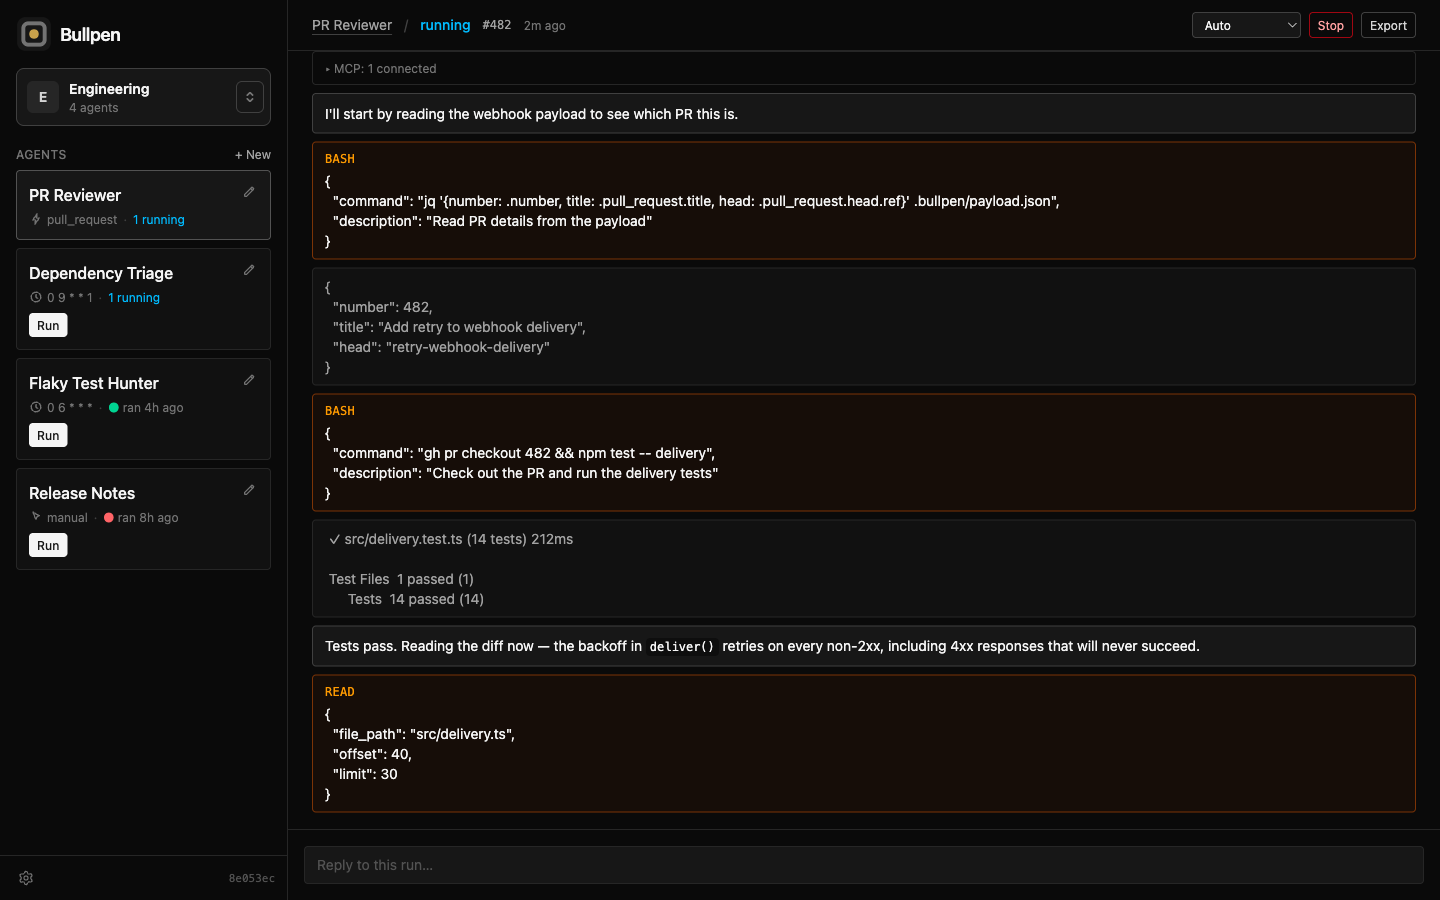
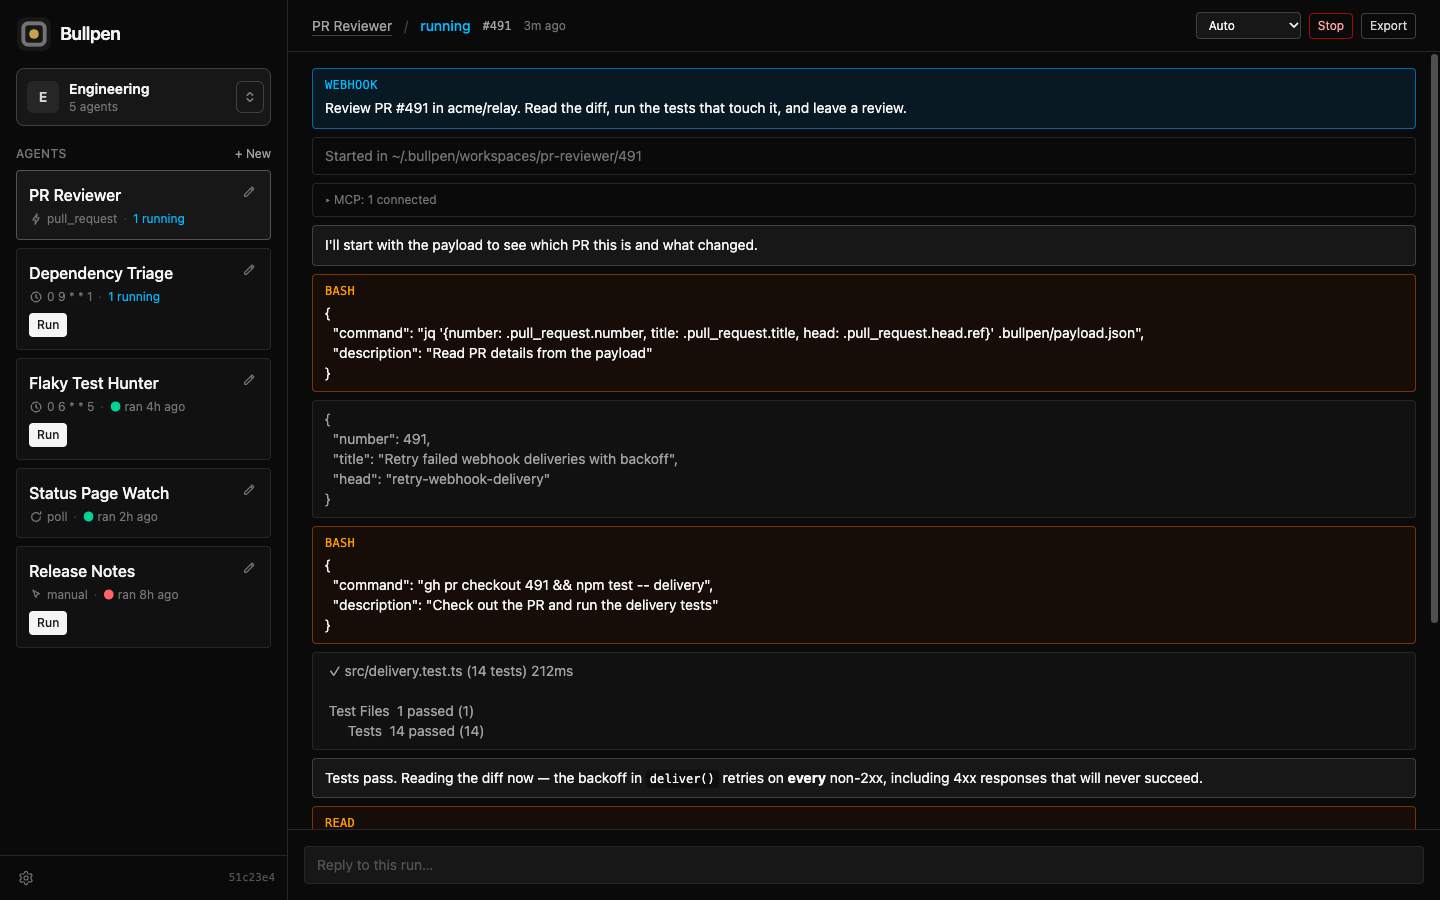
Bring the usage guide and screenshots up to date with recent features (#57)
The guide never mentioned Poll triggers, Queue/Skip, webhook filter sets,
merge deliveries or the credit-line setting, still said failed workspaces
were kept forever, and the screenshots predated the editor rework.

diff --git a/docs/using-bullpen.md b/docs/using-bullpen.md
@@ -20,8 +20,9 @@ always there, and a space can share a webhook URL and env across its agents.
 Each agent has a **workspace**, one of:
 
 - **Fresh directory** (the default) — a new empty folder per run, removed a while after the run
-  completes (Settings sets how long) and kept if it fails. Nothing carries over, which is what
-  lets several runs of one agent work at once.
+  completes (Settings sets how long). A failed or stopped run's folder is kept for 7 days, since
+  it is the only evidence the failure leaves. Nothing carries over, which is what lets several
+  runs of one agent work at once.
 - **Scratch directory** — one folder the agent reuses every run, so it can keep notes or caches.
   The answer for agents that never touch code.
 - **Existing directory** — a folder you name, such as your real checkout, edited in place and
@@ -29,14 +30,23 @@ Each agent has a **workspace**, one of:
 - **Git clone** — a fresh clone on its own branch per run. Review the diff a run produced, then
   commit, push, and open a PR from the run page.
 
-Runs of one agent can overlap by default. On a scratch or existing directory, that means they
-overwrite each other's files — the editor warns about it.
+**Overlapping runs** decides what happens when a trigger arrives while a run is active:
+
+- **Allow** (the default) starts it anyway, in parallel. On a scratch or existing directory that
+  means the runs overwrite each other's files — the editor warns about it.
+- **Queue** holds it and runs one at a time, in order. Up to 20 can wait; beyond that a trigger
+  is refused. This is the safe choice for a shared directory.
+- **Skip** refuses it. A trigger that arrives mid-run is lost for good.
 
 Files an agent hands back go in `.bullpen/out/` in its workspace. When the run ends they are
 listed on the run page to download, and web types such as `report.html` can be previewed in place.
 
 Every run streams live. Reconnecting replays from the event log, so a closed tab or a server
-restart loses nothing.
+restart loses nothing. A run cut off by a restart is marked interrupted, with a **Restart**
+button that picks it back up.
+
+Commits and PRs an agent makes leave out Claude Code's "Generated with Claude Code" footer. Turn
+it back on under Settings.
 
 ## Permissions
 
@@ -64,7 +74,15 @@ with a warning and grants nothing.
 
 ## Triggers
 
-Run an agent by hand, on a cron with its own timezone, or from a webhook.
+Pick one in the agent editor:
+
+- **Manual** — you start each run from the dashboard.
+- **Schedule** — a cron expression with its own timezone.
+- **Poll** — fetch a URL on a cron and run only when the response changes. Narrow it to a dot
+  path such as `data.status` so fields that change on every request don't trigger it. The first
+  check only records what is there, request headers can read `${NAME}` from the agent's env, and
+  nothing needs to reach bullpen.
+- **Webhook** — run when a sender calls the agent's URL.
 
 **Cron doesn't catch up.** A fire missed while bullpen was down is skipped, not replayed.
 
@@ -74,10 +92,24 @@ else. Every request lands in the agent's **Recent webhook deliveries**, includin
 dropped and why. **Test fire** in the agent editor sends a request signed exactly as the
 configured sender would, using the saved settings.
 
+Under **Which deliveries run**, a delivery has to pass filters before anything starts:
+
+- **Only these events** — the event names to accept (GitHub only, since it is the one sender
+  that names its event in a header).
+- **Only run when** — conditions on dot paths into the body: *is one of*, *is not one of*,
+  *contains*, or *does not contain*. All conditions in a set must hold. Split them into several
+  sets when different kinds of delivery need different rules; the agent runs when any one set
+  holds. Nothing is spent on a delivery that doesn't match.
+
+Under **Each run**, **Merge deliveries** folds bursts into one run. Give it a key such as
+`{{payload.pull_request.html_url}}` and a wait in seconds: a delivery waits that long, and any
+with the same key that arrive meanwhile join its run. GitHub, for one, sends two
+`review_requested` deliveries when you request a person and a team together.
+
 The sender has to be able to reach bullpen, so `/api/hooks` needs a public route — on a deployed
 server, whatever exposes it (see [Deploying to a server](../README.md#deploying-to-a-server)); on
 a laptop, a tunnel such as `tailscale funnel --set-path=/api/hooks 4322`. Or skip webhooks
-and have a cron agent poll the sender's API instead, which needs no public surface at all. The URL
+and use a **Poll** trigger on the sender's API instead, which needs no public surface at all. The URL
 bullpen shows is built from your browser's address, so substitute the public hostname when
 pasting it elsewhere.
 
@@ -87,10 +119,10 @@ pasting it elsewhere.
 
 ## Connect a GitHub webhook
 
-**In bullpen** — open the agent, set **Trigger** to Webhook, and set **Sender** to
-`GitHub — X-Hub-Signature-256`. Copy the **Webhook URL** and reveal the **Secret**; you need
-both in a moment. Fill in **Only these events** with the events you want (`issues`,
-`pull_request`) — leaving it empty means every event fires the agent.
+**In bullpen** — open the agent, pick the **Webhook** trigger, and set **Sender** to
+**GitHub**. Copy the **Webhook URL** and **Reveal** the **Secret**; you need both in a moment.
+Fill in **Only these events** with the events you want (`issues`, `pull_request`) — leaving it
+empty means every event fires the agent.
 
 **In the repo** — Settings → Webhooks → Add webhook, then:
 

diff --git a/README.md b/README.md
@@ -9,8 +9,8 @@
 <br/>
 
 A self-hosted dashboard for a roster of Claude Code agents — code agents that clone a repo and
-open a PR, and non-code agents that fetch data and report back. Run them by hand, on a cron, or
-from a webhook, and watch them work.  **[Using bullpen](docs/using-bullpen.md)** covers setting agents up: workspaces, permission modes,
+open a PR, and non-code agents that fetch data and report back. Run them by hand, on a cron, when
+a URL changes, or from a webhook, and watch them work.  **[Using bullpen](docs/using-bullpen.md)** covers setting agents up: workspaces, permission modes,
 webhooks, env and secrets, and MCP servers.
 
 
@@ -20,6 +20,8 @@ which drives the real `claude` binary, so a Claude subscription works without an
 ![Bullpen dashboard: a space's agents, recent runs, and what needs attention](docs/screenshot.png)
 
 ![A run in progress: the agent's messages, tool calls and their output as they stream in](docs/run-view.png)
+
+![The agent editor's webhook trigger: sender, URL and secret, delivery filters, and per-run merging](docs/agent-editor.png)
 
 ## Run it locally
 
